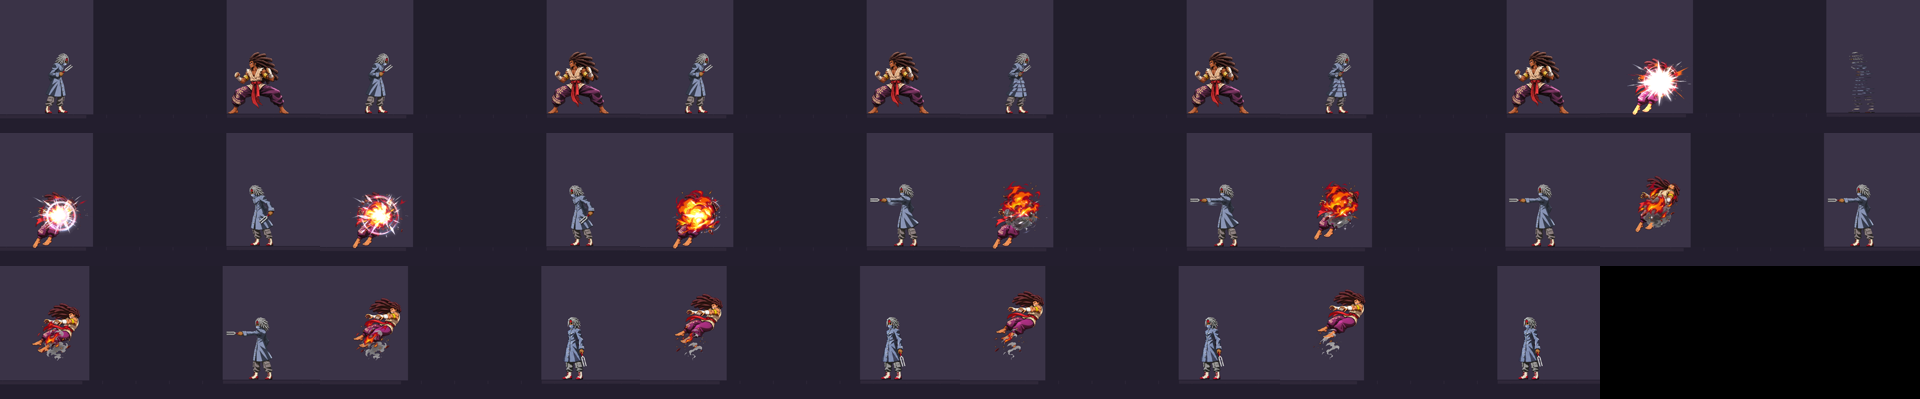
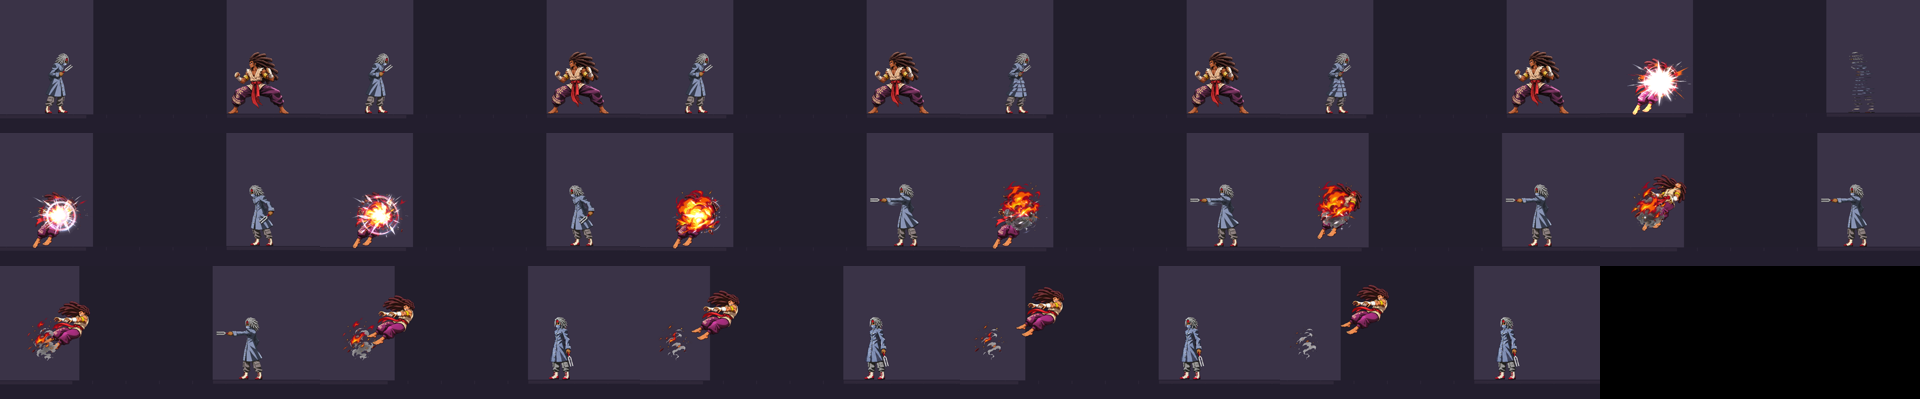
War'Teun: air teleports turn him to face the opponent; Air Warp / Displacement fuses by button
New warp option `face` (Air Warp, both air dashes). Air Warp and Displacement vacuums wait
10 / 30 / 60 on L / M / H like Warp Step; the Displacement test follows the new timings.
Includes the owner's box-editor changes made meanwhile.

Claude-Session: https://claude.ai/code/session_01XDQqBAyT34HEXnArFczUN3

diff --git a/tests/warteun.test.js b/tests/warteun.test.js
@@ -401,23 +401,52 @@ test('Listen: a strike in the window is caught (he warps behind and a vacuum bur
   assert.equal(WT.states.listenM.duration - (win.to + 1), 20);
 });
 
-test('Displacement: he passes through to the other side and strikes on frame 18; the vacuum he left bursts 16 frames later, never together', () => {
-  const m = rawMove('displacementM');
-  assert.equal(m.startup, 18);
-  for (const hold of [0, RAW.RIGHT, RAW.LEFT]) {
+test("Displacement: he passes through to the other side and strikes on frame 18; its vacuum waits by button like Warp Step's (owner, Nov 26), never bursting with the strike", () => {
+  const stepFuses = ['L', 'M', 'H'].map((b) => rawMove(`warpStep${b}`).timeline.find((e) => e.spawn).spawn.fuse);
+  for (const [n, b] of ['L', 'M', 'H'].entries()) for (const hold of [0, RAW.RIGHT, RAW.LEFT]) {
+    const id = `displacement${b}`;
+    const m = rawMove(id);
+    assert.equal(m.startup, 18);
+    const sp = m.timeline.find((e) => e.spawn);
+    assert.equal(sp.spawn.fuse, stepFuses[n], `${id}: the same wait as Warp Step ${b}`);
+    assert.equal(rawMove(`airWarp${b}`).timeline.find((e) => e.spawn).spawn.fuse, stepFuses[n], `Air Warp ${b}: the same wait as Warp Step ${b}`);
     const g = setup(W, 160);
     const a = g.players[0], d = g.players[1];
-    const cues = play(g, W, 'displacementM', 60, (i) => (i < 40 ? hold : 0));
+    const cues = play(g, W, id, 130, (i) => (i < 110 ? hold : 0));
     assert.ok(a.x > d.x || cues.some((c) => c.type === 'warp' && c.x > d.x), 'he switched sides');
-    const strike = cues.find((c) => c.move === 'displacementM');
+    const strike = cues.find((c) => c.move === id);
     const burst = cues.find((c) => c.type === 'projBurst');
     assert.equal(strike.i, m.startup - 1, 'the strike touches on frame 18');
-    assert.equal(burst.i + B.delay - strike.i, 16, 'the burst lands 16 frames after it');
+    const after = sp.spawn.fuse + B.collapse + B.delay - (m.startup - 1 - sp.at);
+    assert.equal(burst.i + B.delay - strike.i, after, `${id}: the burst lands ${after} frames after the strike`);
     const touch = cues.find((c) => c.move === 'vacuum');
-    if (touch) assert.equal(touch.i - strike.i, 16);
-    const touches = cues.filter((c) => c.move === 'vacuum' || c.move === 'displacementM').map((c) => c.i);
+    if (touch) assert.equal(touch.i - strike.i, after);
+    const touches = cues.filter((c) => c.move === 'vacuum' || c.move === id).map((c) => c.i);
     assert.equal(new Set(touches).size, touches.length, 'the two never land on the same frame');
   }
+});
+
+test('An air teleport that carries him past the opponent turns him to face them', () => {
+  for (const [name, state, raw] of [['Air Warp', 'airWarpM', 0], ['air dash forward', 'airdashF', 0]]) {
+    const g = setup(W, 100);
+    const a = g.players[0], d = g.players[1];
+    a.y = px(150); d.y = 0;
+    assert.equal(a.facing, 1);
+    play(g, W, state, 12, () => raw);
+    assert.ok(a.x > d.x, `${name}: he is past them`);
+    assert.equal(a.facing, -1, `${name}: he turned around`);
+  }
+  // Not past them: he keeps his facing.
+  const far = setup(W, 600);
+  far.players[0].y = px(150);
+  play(far, W, 'airWarpM', 12);
+  assert.ok(far.players[0].x < far.players[1].x);
+  assert.equal(far.players[0].facing, 1);
+  // A back air dash away from them never turns him.
+  const h = setup(W, 100);
+  h.players[0].y = px(150);
+  play(h, W, 'airdashB', 12);
+  assert.equal(h.players[0].facing, 1);
   // Blocking the strike means holding the other way (he is behind now).
   const g = setup(W, 160);
   const cues = play(g, W, 'displacementM', 30, RAW.LEFT);

diff --git a/src/core/character.js b/src/core/character.js
@@ -512,7 +512,7 @@ function normalizeEvent(e, stats, sheetName) {
     // warp: an instant move. { x, y } px (x forward), or behind: true (to the far side of the opponent, `gap` px past
     // them), behindIf: "<var>" (behind only while that var of the fighter's runs, else x / y), or swap: true (the two
     // fighters trade places). After behind / swap the fighter faces the opponent.
-    else if (k === 'warp') out[k] = { x: px(v.x ?? 0), y: px(v.y ?? 0), behind: !!v.behind, behindIf: v.behindIf ?? null, gap: px(v.gap ?? 70), swap: !!v.swap, stop: px(v.stop ?? 0) };
+    else if (k === 'warp') out[k] = { x: px(v.x ?? 0), y: px(v.y ?? 0), behind: !!v.behind, behindIf: v.behindIf ?? null, gap: px(v.gap ?? 70), swap: !!v.swap, stop: px(v.stop ?? 0), face: !!v.face };
     // detonate: { name, collapse }: the fighter's projectiles of that kind burst `collapse` frames from now.
     else if (k === 'detonate') out[k] = typeof v === 'string' ? { name: v, collapse: 0 } : { name: v.name, collapse: v.collapse | 0 };
     // catch: { to, hitstop }: while it lasts, a strike that would hit is caught instead: no damage, the fighter

diff --git a/src/core/fighter.js b/src/core/fighter.js
@@ -342,6 +342,8 @@ export function fireOnEnter(game, p, def, world) {
             if ((to - limit) * p.facing > 0) to = (limit - p.x) * p.facing > 0 ? limit : p.x;
           }
           p.x = to; p.y = Math.max(0, p.y + v.y);
+          // face: a step that ends on the other side of the opponent turns him to face them (nothing else turns a fighter in the air).
+          if (v.face && (o.x - fx) * (o.x - p.x) < 0) p.facing = o.x > p.x ? 1 : -1;
         }
         if (v.swap || behind) {
           p.facing = o.x > p.x ? 1 : o.x < p.x ? -1 : p.facing;

diff --git a/docs/reports/warteun.md b/docs/reports/warteun.md
@@ -211,3 +211,15 @@ not cancel into it on hit (Avner's j.L and j.M do), so it is movement only and o
   attempts, not a proven maximum, and the numbers were moving while you tuned him in the editor.
 
 `npm test`: 489 of 489. Baseline check: the same 34 old differences.
+
+## Air teleports turn him; explosion timings by button (Nov 26)
+
+- **Turning:** Air Warp and both air dashes now turn him to face the opponent when they carry him past them (new
+  warp option `face`). Measured: after crossing over with Air Warp, j.L, j.M and j.H all hit.
+- **Timings:** Air Warp and Displacement vacuums now wait 10 / 30 / 60 frames on L / M / H, the same as Warp Step
+  (Air Warp was 20 on every button, Displacement 9).
+- **Displacement now differs by button.** L: the burst lands 17 frames after the strike (was 16) and still pulls
+  them back in: 1,252 alone. M and H: the burst comes too late to combo from the strike (700 alone); they are traps.
+  The follow-up combo I scripted reaches 2,911 (29%) on L, 2,211 on M, and does not connect on H.
+
+`npm test`: 490 of 490. Baseline check: the same 34 old differences.

diff --git a/docs/toska-format.md b/docs/toska-format.md
@@ -208,7 +208,8 @@ named effect pinned to the lantern point of each drawing, from that drawing on).
   opponent, `gap` px past, facing them. `"behindIf": "<var>"` beside `x` does that only while the fighter's var is
   above 0 (else the plain `x`). `"warp": { "swap": true }` trades places with the opponent. `"stop": px` beside a
   forward `x`: the step never carries the fighter through a grounded opponent in front; it ends that far short of
-  them (and does nothing if they are already nearer). Cue `warp`.
+  them (and does nothing if they are already nearer). `"face": true` beside `x`: if the step ends on the other
+  side of the opponent, the fighter turns to face them (for air steps: nothing else turns a fighter in the air). Cue `warp`.
 - `"detonate": "<projectile>"` or `{ "name", "collapse": frames }` (one frame): every burst projectile of that
   kind the fighter owns stops waiting and bursts after `collapse` frames (0 = now); ones within the projectile's
   `resonate.gap` of each other burst as one. Cue `detonate`.
